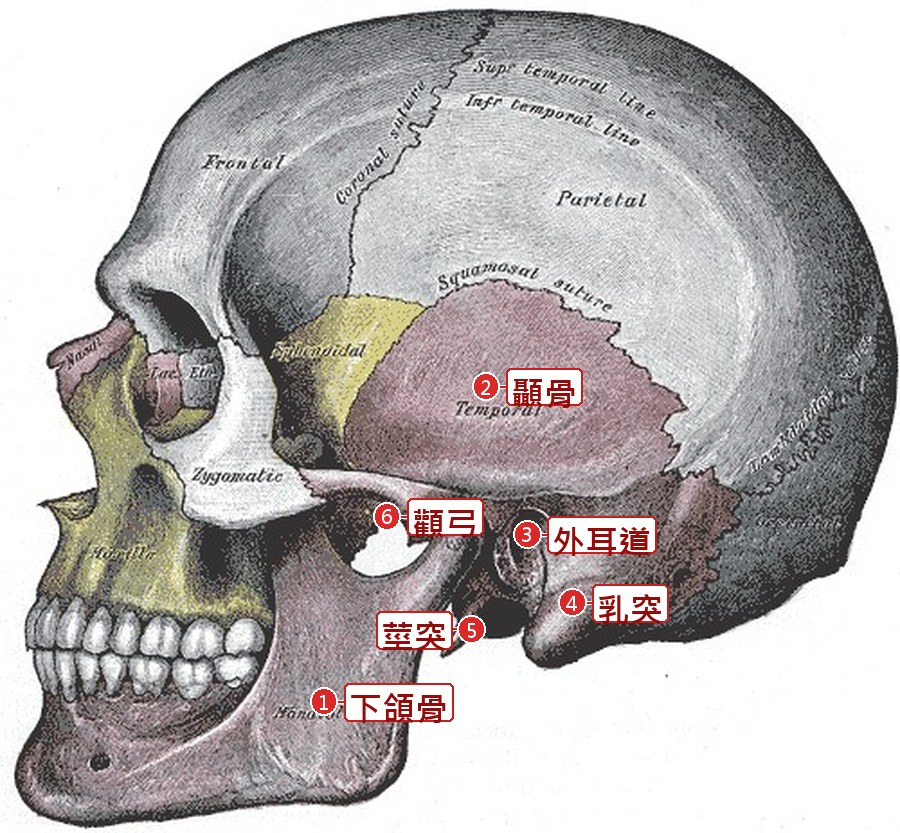
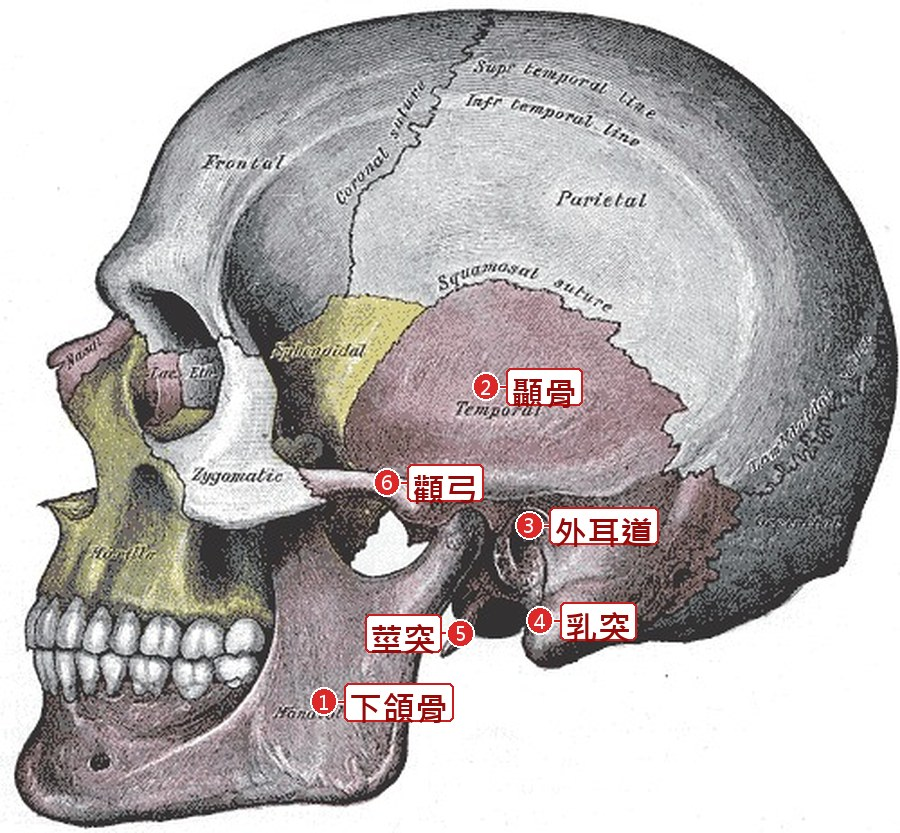
Correct skull side-view marker positions after self-review of figure annotations

Changed region(s): [[0.4044, 0.5306, 0.7467, 0.7803], [0.4044, 0.7179, 0.56, 0.8115]]

diff --git a/CLAUDE.md b/CLAUDE.md
@@ -289,5 +289,5 @@
 - 起因：使用者問「眼解剖學習有沒有在講到結構時附圖例？例如內頸動脈四條分支」。查出手冊圖鑑 `manual-*` 7 單元本來就有圖解，但**眼球血液供應 3 單元、自主神經／腦神經 4 單元（ans-clinical／pathways／reflex／trigeminal）、角膜 3 單元、舊的眼眶骨與視覺路徑兩個課程的講解卡沒有圖**。已補 125 張講解卡（blood-vessels／ciliary／retina、eye-anat-orbit-course、visual-path-course、ans-*、cornea-*）。ans-basics（神經系統總論、藥物表）、cornea 的疾病／組成表等抽象卡與 114 大一下單元**沒有補圖**。
 - 做法：卡片用既有的 `img`（字串或陣列）＋`img_source`，本批圖放 `img/eye-anat-fig/<key>.jpg`，是把圖鑑現有的真實圖片（腦標本、顱骨、Gray 解剖圖、切片、眼底照等；新增 Gray188／190／193 顱骨圖與 Häggström 副鼻竇冠狀 CT）**燒上中文名稱＋紅色編號**的版本；卡片內文最前面加一行「🖼 看圖：…」說明。原圖（無標籤）仍給圖鑑題本用，不受影響。
 - `css/style.css` 的 `.lp-src` 加 `overflow-wrap:anywhere`（長網址來源在手機會撐出橫向捲動）；index.html 快取版本 v99。
-- 產生流程在專案外 `E:\NEWTEST\eye_work\`：`annot.py`（標標籤）、`fig_specs.py`／`fig_specs2.py`／`fig_specs3.py`（每張圖標哪些名稱、哪張卡配哪些圖；新圖的標記點用原圖像素座標）、`render_figs.py`（產圖）、`apply_figs.py`（寫入卡片，可重跑）。圖上標記位置沿用圖鑑人工標點（前脈絡叢動脈等細小構造標「大致位置」）；新增的 Gray193 顱底孔洞、Gray188／190、CT 的位置是對照原圖手動定位，尚未經專業審稿。
+- 產生流程在專案外 `E:\NEWTEST\eye_work\`：`annot.py`（標標籤）、`fig_specs.py`／`fig_specs2.py`／`fig_specs3.py`（每張圖標哪些名稱、哪張卡配哪些圖；新圖的標記點用原圖像素座標）、`render_figs.py`（產圖）、`apply_figs.py`（寫入卡片，可重跑）。圖上標記位置沿用圖鑑人工標點（前脈絡叢動脈等細小構造標「大致位置」）；新增的 Gray193 顱底孔洞、Gray188／190、CT 的位置是對照原圖手動定位，已做一輪逐張檢視的自我審稿（2026-10-17：Gray188 顱骨側面的顴弓、外耳道、乳突、莖突位置依放大格線校正；Gray193 孔洞、Gray190 前面觀、CT 與其餘沿用圖鑑標點的圖未發現重大錯位），仍非專業審稿。
 - QA：`tools/figs-qa/check.cjs`（125 張配圖卡×桌機／390px 共 250 次渲染：圖載入、張數、說明、來源、無橫向捲動；結果 0 問題，截圖 `output/playwright/figs-ica-*.png`）、`tools/manual-qa/check.cjs` 103 項、`tools/eye115-qa/check.cjs` 80/80、`sweep.cjs` 173 步 0 錯誤；嚴格建置通過。沒有實機 iPad 測試。
